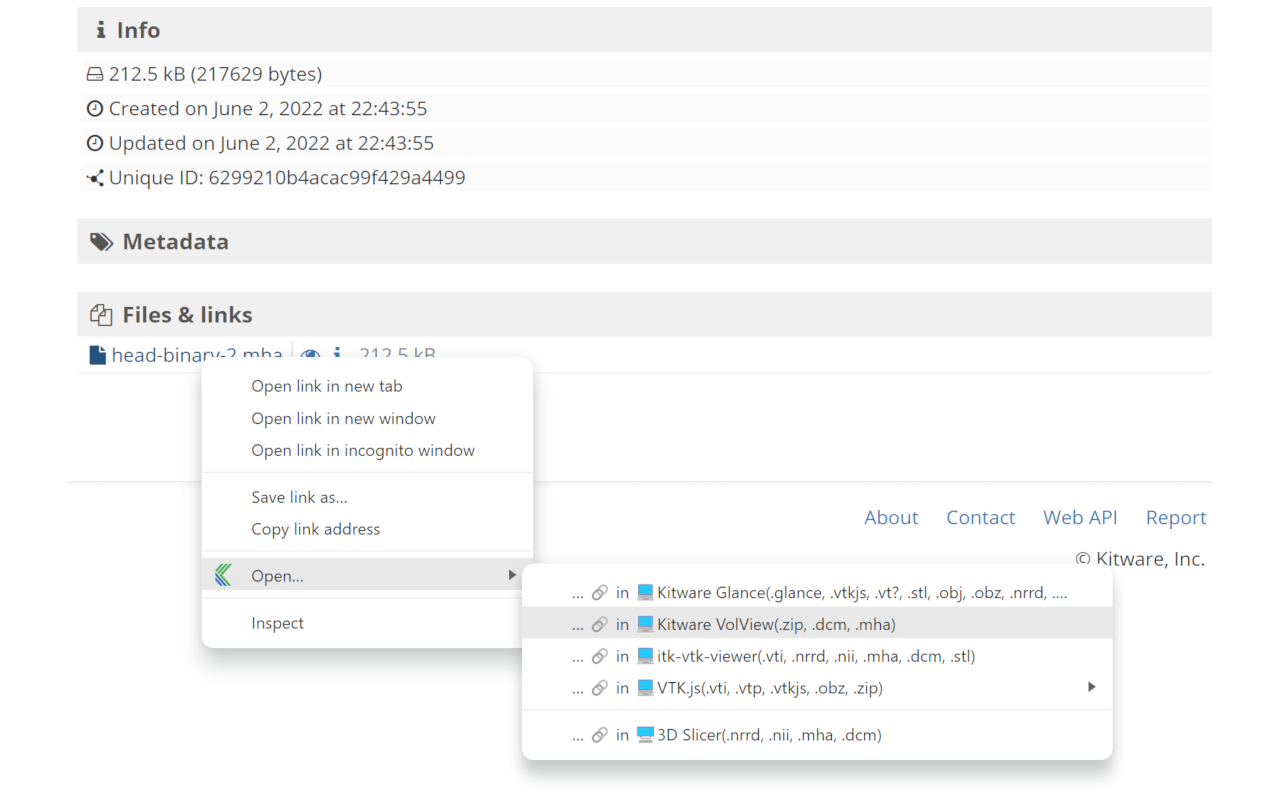
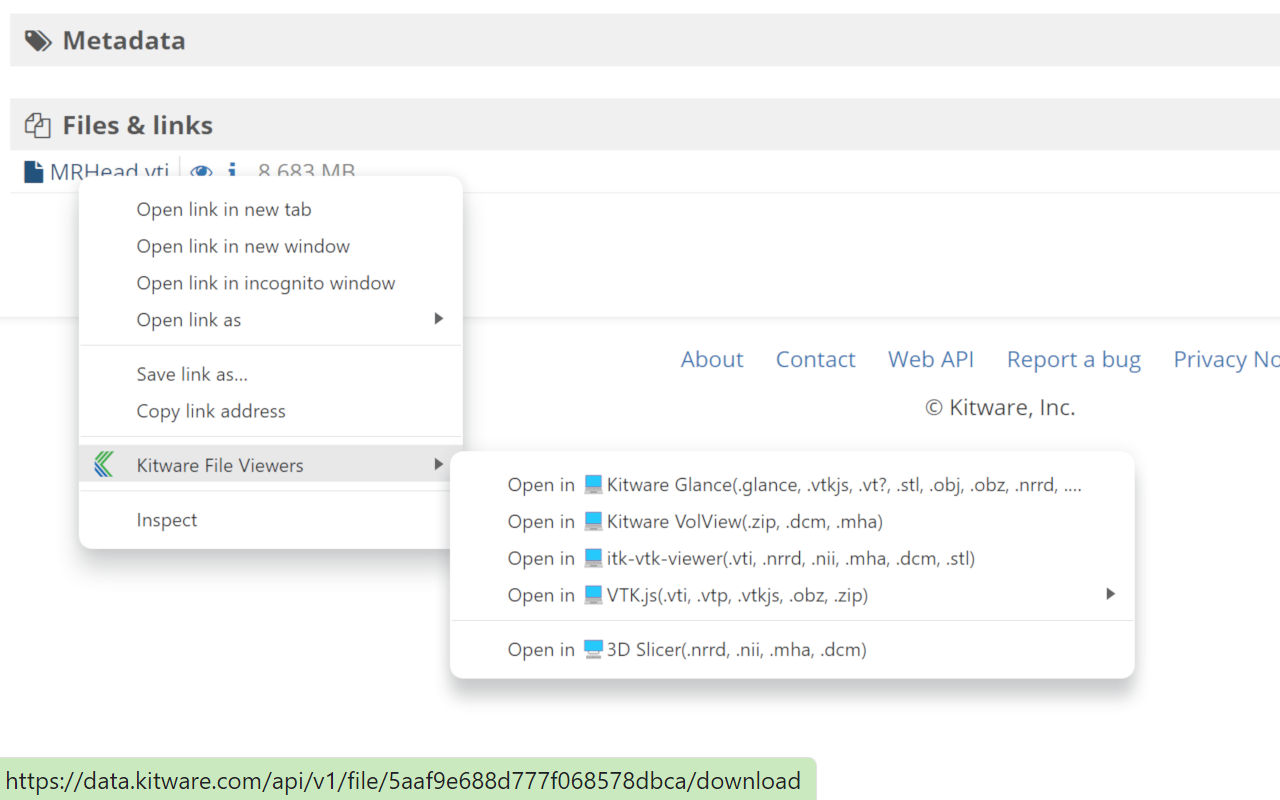
doc(README): Update screenshots and documentation

diff --git a/options.html b/options.html
@@ -37,7 +37,7 @@
 
 <body>
     <img src="images/kitware-128.png" class="header"/>
-    <h1><i>Open in&hellip;</i> extension</h1>
+    <h1><i>Kitware File Viewers</i> extension</h1>
     <img src="images/Screenshot.png" width="468"/>
     <h2>How it works</h2>
     <p>File information (i.e. the filename and the file type/extension) is extracted

diff --git a/README.md b/README.md
@@ -6,18 +6,14 @@ Cross-browser extension that lets you conveniently open URLs with Kitware online
 *Example of usage with [Girder](https://girder.readthedocs.io/en/latest/) (e.g. https://data.kitware.com)*
 
 
-## Browser support
+# Install
 
-It is known to work with at least the following desktop browsers:
- - Firefox 108.0.2
- - Chrome 108.0.5359.126
- - Edge 109.0.1518.55
+Install the extension from your browser web store:
+ - [Chrome](https://chrome.google.com/webstore/detail/kitware-file-viewers/lklknpjabnmfefcfhmhdnhebkpindcld) 
+ - [Firefox](https://addons.mozilla.org/en-US/firefox/addon/kitware-file-viewers/)
+ - [Edge](https://microsoftedge.microsoft.com/addons/detail/kitware-file-viewers/kfejllcdobijgoijjpfcbaoicjbdkhfb)
 
-It should work (not tested) with:
- - all chromium-based browsers such as Opera
- - Safari
-
-## Viewer support
+# Viewers
 
 The following 💻 online viewers are supported:
  - [Kitware Glance](https://kitware.github.io/glance/)
@@ -57,20 +53,6 @@ Here is the explicit list of files supported by the extension :
  - vtkjs (Zip)
  - vtp (vtkPolyData)
  - vtu (vtkUnstructedGrid)
-# Install
-
-Until the extension is published, you have to manually install it.
-
-## Chrome
-Follow the [Loading unpacked extension tutorial](https://developer.chrome.com/docs/extensions/mv3/getstarted/development-basics/#load-unpacked).
-
-## Firefox
-
-Follow the [Temporary installation tutorial](https://extensionworkshop.com/documentation/develop/temporary-installation-in-firefox/).
-
-### Edge
-
-Follow the [Sideload an extension tutorial](https://learn.microsoft.com/en-us/microsoft-edge/extensions-chromium/getting-started/extension-sideloading).
 
 # Usage
 
@@ -99,15 +81,35 @@ Then you can open on your browser localhost:8000 to see your files.
 
 ## 3D Slicer
 
-Shall you want to open your URLs with 3D Slicer, you need to save the [LoadRemoteFile module](https://gist.github.com/lassoan/534298ee567000a37b3cb89de01750b8#file-loadremotefile-py-L19-L20) into the qt-scripted-modules folder of 3D Slicer.
-It will work automatically on Windows. There is [more setup required](https://gist.github.com/lassoan/534298ee567000a37b3cb89de01750b8#file-loadremotefile-py-L13) on other OS.
+Shall you want to open your URLs with 3D Slicer, you need to save the [LoadRemoteFile module](https://github.com/PerkLab/SlicerSandbox/blob/master/LoadRemoteFile/LoadRemoteFile.py) into the qt-scripted-modules folder of 3D Slicer.
+It will work automatically on Windows. There is [more setup required](https://github.com/PerkLab/SlicerSandbox/blob/master/README.md#loadremotefile) on other OS.
 
-# Help and Support #
-[Kitware](https://www.kitware.com/) offers advanced software R&D solutions and services. Find out how we can help with your next project.
+
+# Browser support
+
+It is known to work with at least the following desktop browsers:
+ - Firefox 108.0.2
+ - Chrome 108.0.5359.126
+ - Edge 109.0.1518.55
+
+It should work (not tested) with:
+ - all chromium-based browsers such as Opera
+
+A bit more work is required to support:
+ - Safari
+
+# Debug
+
+To develop and debug, you can manually install the extension by following those tutorials 
+
+ - Chrome: Follow the [Loading unpacked extension tutorial](https://developer.chrome.com/docs/extensions/mv3/getstarted/development-basics/#load-unpacked).
+ - Firefox: Follow the [Temporary installation tutorial](https://extensionworkshop.com/documentation/develop/temporary-installation-in-firefox/).
+ - Edge: Follow the [Sideload an extension tutorial](https://learn.microsoft.com/en-us/microsoft-edge/extensions-chromium/getting-started/extension-sideloading).
+
 
 # Packaging #
 
-## Manifest v2 package##
+## Manifest v2 package ##
 
 Copy manifests/manifest-v2.json into manifest.json.
 Create a zip archive.
@@ -116,3 +118,6 @@ Create a zip archive.
 
 Copy manifests/manifest-v3.json into manifest.json.
 Create a zip archive.
+
+# Help and Support #
+[Kitware](https://www.kitware.com/) offers advanced software R&D solutions and services. Find out how we can help with your next project.
